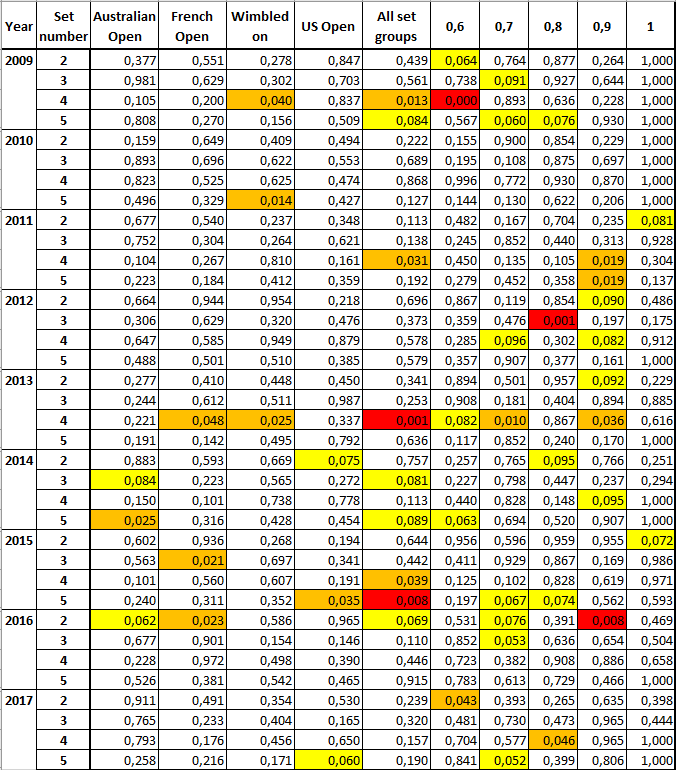
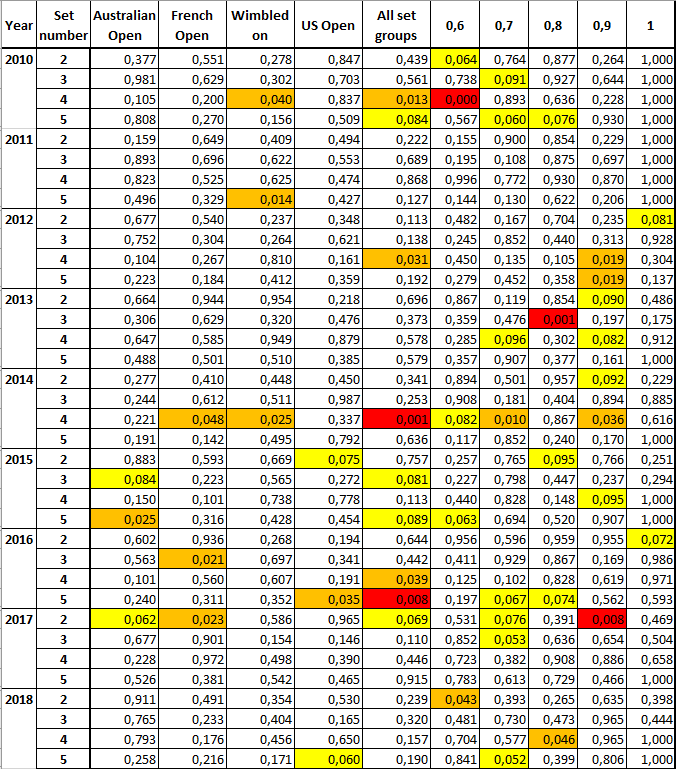
model description

Changed region(s): [[0.0, 0.0, 1.0, 0.9051], [0.932, 0.0, 0.963, 0.0312]]

diff --git a/main.py b/main.py
@@ -176,7 +176,7 @@ def fit_and_evaluate(matches_data: pd.DataFrame, first_year: int, last_year: int
 
         # apply the model - evaluate success rate
         testing_set = matches_data[matches_data["year"] == year + 1]
-        results[year] = evaluate_single_lambda(c_lambda, testing_set)
+        results[year + 1] = evaluate_single_lambda(c_lambda, testing_set)
 
     # export results
     results_df = pd.concat(results)
